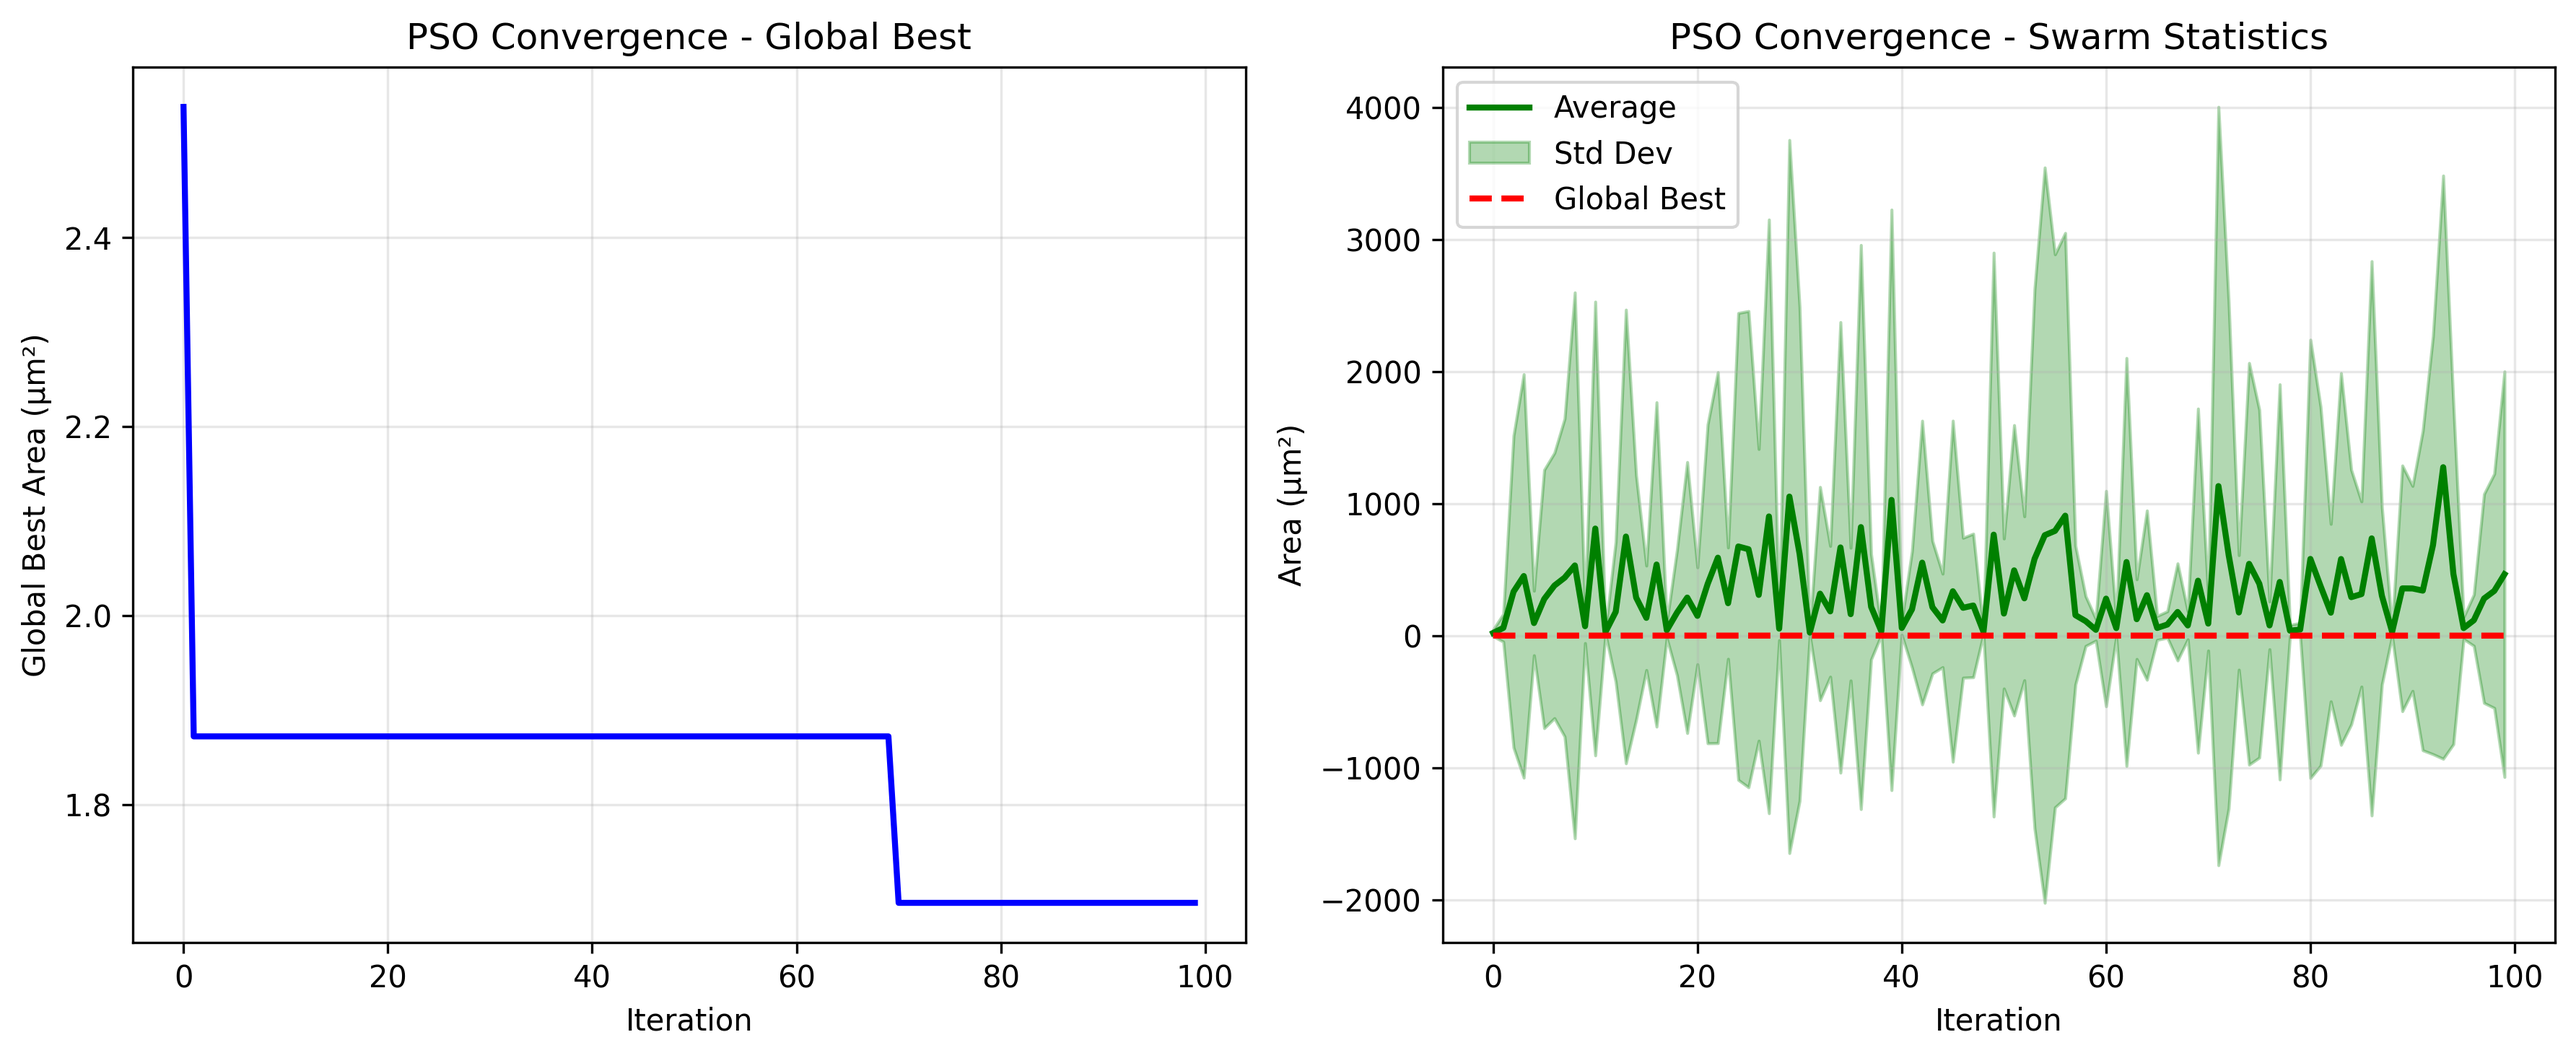
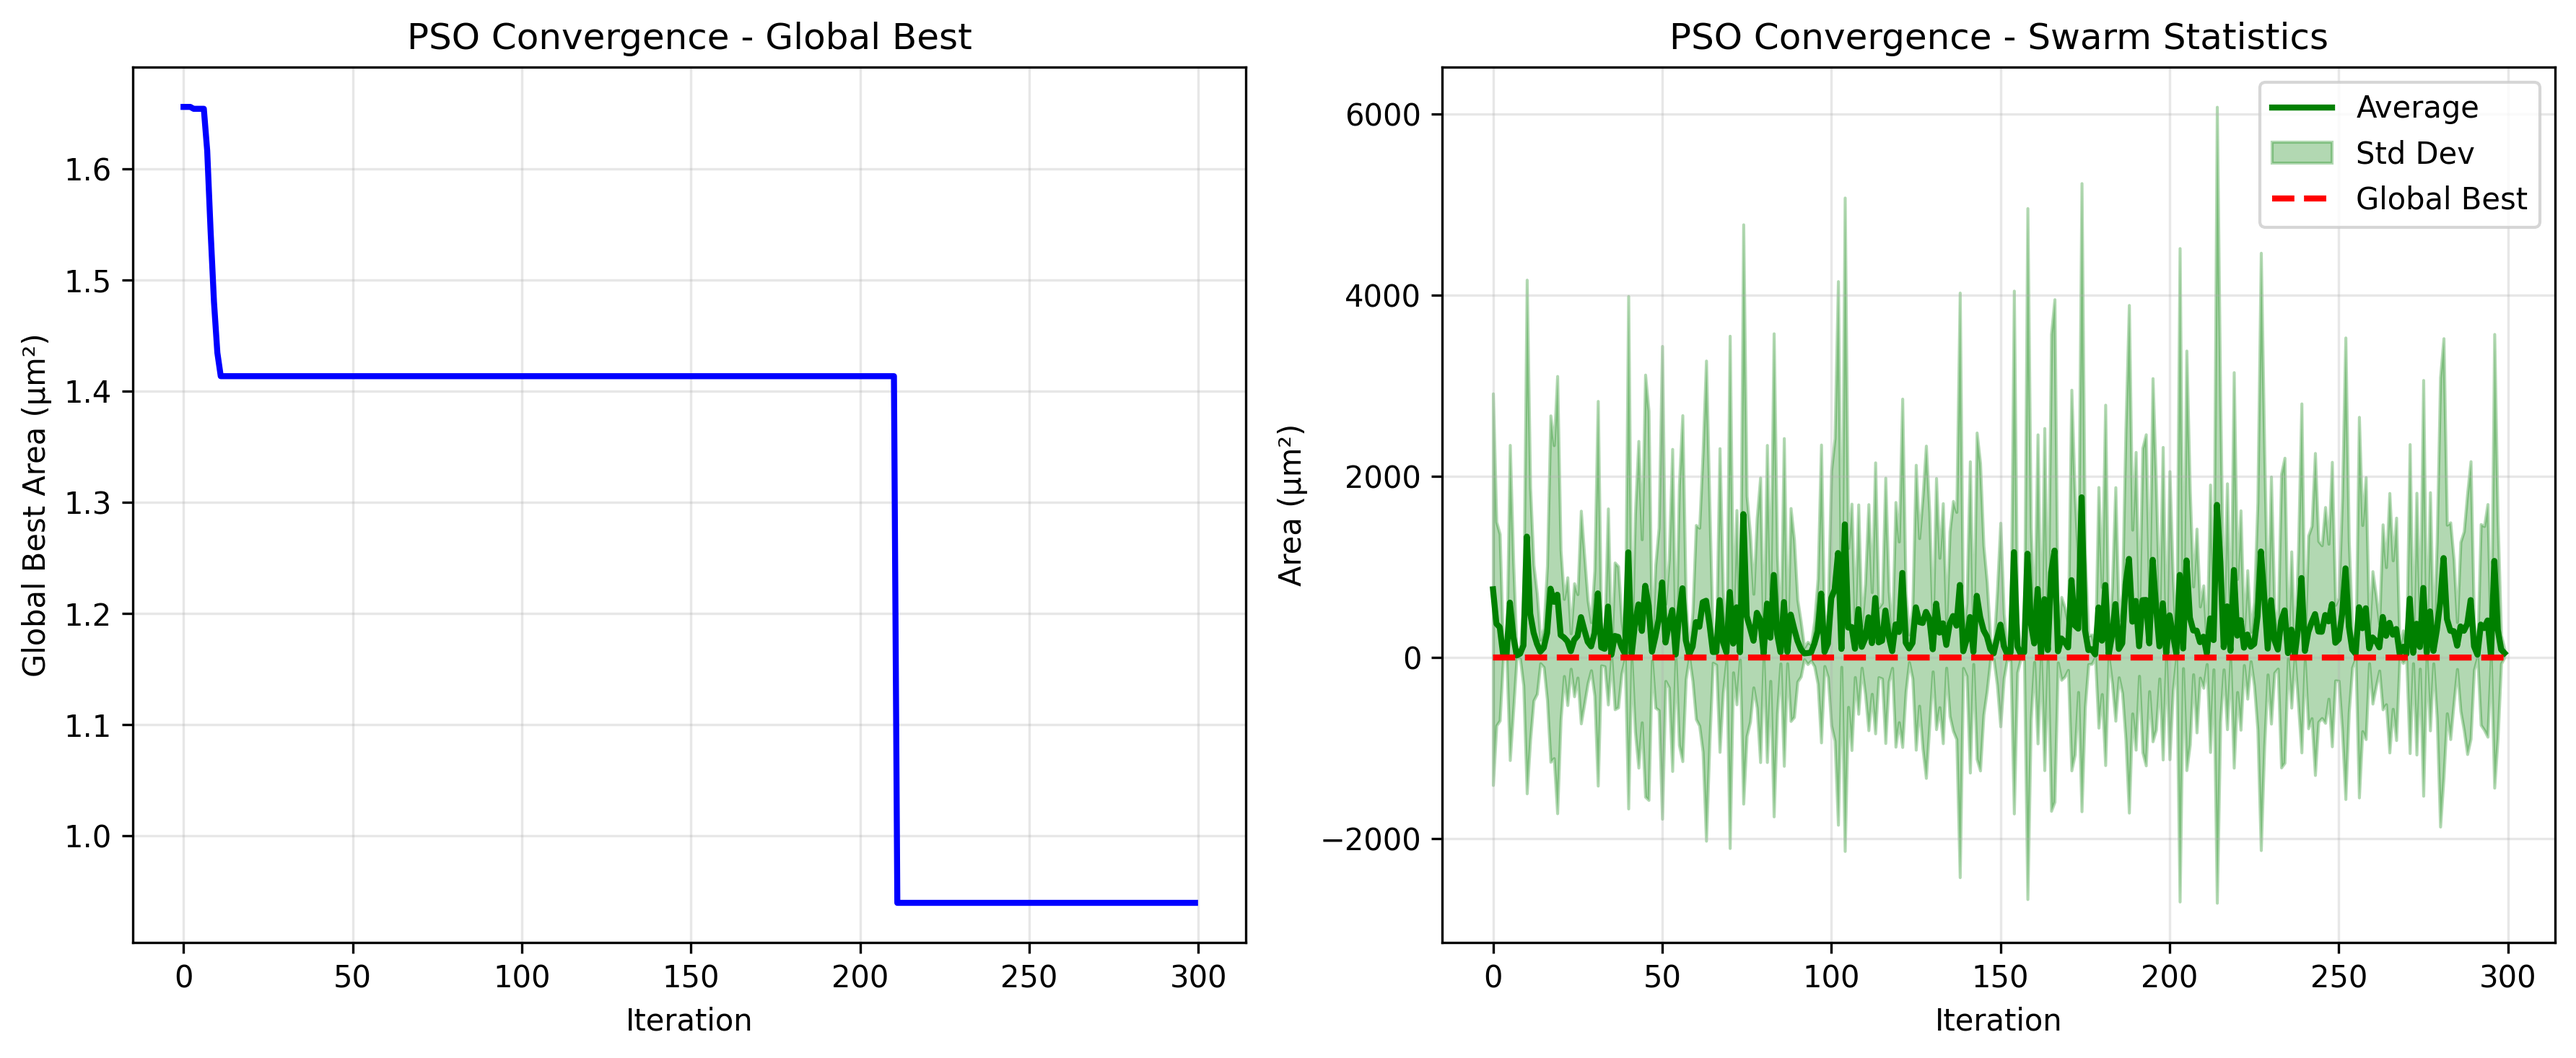
PSO - 300 iterations

diff --git a/PSO/5T-OTA/Hybrid_PSO.py b/PSO/5T-OTA/Hybrid_PSO.py
@@ -1,9 +1,12 @@
+import time
+import os
+import sys
+from contextlib import contextmanager
 import numpy as np
 import matplotlib.pyplot as plt
 from pygmid import Lookup as lk
 from scipy.interpolate import interp1d
 from scipy.optimize import brentq
-import time
 
 NCH = lk('../../sky130_lookup/simulation/nfet_01v8.mat')
 PCH = lk('../../sky130_lookup/simulation/pfet_01v8.mat')
@@ -54,8 +57,20 @@ def getVGS_diode(device_type, target_gm_id, length):
     return vgs_required
 # ===============================
 
+@contextmanager
+def silence_stdout():
+    new_target = open(os.devnull, "w")
+    old_target = sys.stdout
+    sys.stdout = new_target
+    try:
+        yield
+    finally:
+        sys.stdout = old_target
+        new_target.close()
+
 def vgs_error(vgs_guess, target_gm_id, L, VSB):  # VGS solver function
-    vgs_calculated = PCH.lookupVGS(GM_ID=target_gm_id, VDS=vgs_guess, VSB=VSB, L=L)
+    with silence_stdout():
+        vgs_calculated = PCH.lookupVGS(GM_ID=target_gm_id, VDS=vgs_guess, VSB=VSB, L=L)
     return vgs_guess - vgs_calculated
 
 def get_W(gm1, gm2, L_1, L_2, ID):
@@ -68,11 +83,12 @@ def get_W(gm1, gm2, L_1, L_2, ID):
         return None, None
     # Vgs_2 = getVGS_diode('PMOS', gm_ID_2, L_2)
 
-    JD_1 = NCH.lookup('ID_W', GM_ID=gm_ID_1, VDS=VDD/2, VSB=0, L=L_1)
-    JD_2 = PCH.lookup('ID_W', GM_ID=gm_ID_2, VDS=Vgs_2, VSB=0, L=L_2)
+    with silence_stdout():
+        JD_1 = NCH.lookup('ID_W', GM_ID=gm_ID_1, VDS=VDD/2, VSB=0, L=L_1)
+        JD_2 = PCH.lookup('ID_W', GM_ID=gm_ID_2, VDS=Vgs_2, VSB=0, L=L_2)
 
-    W_1 = ID / JD_1
-    W_2 = ID / JD_2
+        W_1 = ID / JD_1
+        W_2 = ID / JD_2
 
     return W_1, W_2
 
@@ -86,21 +102,22 @@ def get_specVars(gm1, gm2, L_1, L_2, ID):
         return None, None, None, None, None, None
     # Vgs_2 = getVGS_diode('PMOS', gm_ID_2, L_2)
 
-    Cdd_1 = gm1 / NCH.lookup('GM_CDD', GM_ID=gm_ID_1, VDS=VDD/2, VSB=0, L=L_1)
-    Cdd_2 = gm2 / PCH.lookup('GM_CDD', GM_ID=gm_ID_2, VDS=Vgs_2, VSB=0, L=L_2)
-    Cpar = Cdd_1 + Cdd_2
+    with silence_stdout():
+        Cdd_1 = gm1 / NCH.lookup('GM_CDD', GM_ID=gm_ID_1, VDS=VDD/2, VSB=0, L=L_1)
+        Cdd_2 = gm2 / PCH.lookup('GM_CDD', GM_ID=gm_ID_2, VDS=Vgs_2, VSB=0, L=L_2)
+        Cpar = Cdd_1 + Cdd_2
 
-    Cgg_2 = gm2 / PCH.lookup('GM_CGG', GM_ID=gm_ID_2, VDS=Vgs_2, VSB=0, L=L_2)
-    Cx = Cpar + Cgg_2
+        Cgg_2 = gm2 / PCH.lookup('GM_CGG', GM_ID=gm_ID_2, VDS=Vgs_2, VSB=0, L=L_2)
+        Cx = Cpar + Cgg_2
 
-    JD_1 = NCH.lookup('ID_W', GM_ID=gm_ID_1, VDS=VDD/2, VSB=0, L=L_1)
-    JD_2 = PCH.lookup('ID_W', GM_ID=gm_ID_2, VDS=Vgs_2, VSB=0, L=L_2)
+        JD_1 = NCH.lookup('ID_W', GM_ID=gm_ID_1, VDS=VDD/2, VSB=0, L=L_1)
+        JD_2 = PCH.lookup('ID_W', GM_ID=gm_ID_2, VDS=Vgs_2, VSB=0, L=L_2)
 
-    W_1 = ID / JD_1
-    W_2 = ID / JD_2
+        W_1 = ID / JD_1
+        W_2 = ID / JD_2
 
-    gds_1 = gm1 / NCH.lookup('GM_GDS', GM_ID=gm_ID_1, VDS=VDD/2, VSB=0, L=L_1)
-    gds_2 = gm2 / PCH.lookup('GM_GDS', GM_ID=gm_ID_2, VDS=Vgs_2, VSB=0, L=L_2)
+        gds_1 = gm1 / NCH.lookup('GM_GDS', GM_ID=gm_ID_1, VDS=VDD/2, VSB=0, L=L_1)
+        gds_2 = gm2 / PCH.lookup('GM_GDS', GM_ID=gm_ID_2, VDS=Vgs_2, VSB=0, L=L_2)
 
     return Cx, Cpar, W_1, W_2, gds_1, gds_2
 
@@ -127,8 +144,7 @@ def get_feasRegion(gm_ID, L_1, L_2, SR_spec, CL, Power_spec, GBW_spec):
 
     return gm1_min, gm1_max, gm2_min, gm2_max, L_1_min, L_1_max, L_2_min, L_2_max, ID_min, ID_max
 
-# we can check the feasibility
-
+# We can check the feasibility
 def survivability_test(particle, verbose=False):
     """
     This is to test if a particle meets all design specifications
@@ -203,8 +219,7 @@ def survivability_test(particle, verbose=False):
     return specs_met, Area_active, specs_dict
 
 
-# generate particles for PSO
-
+# Generate particles for PSO
 def generate_particle(bounds, max_attempts=1000):
     """
     bounds = [gm1_bounds, gm2_bounds, L1_bounds, L2_bounds, ID_bounds]
@@ -227,9 +242,9 @@ def generate_particle(bounds, max_attempts=1000):
     # If we reach here, couldn't generate valid particle
     return None, np.inf, None
 
-
-# Hybrid-PSO Algo.
-
+# ===================================
+# HYBRID-PSO ALGORITHM IMPLEMENTATION
+# ===================================
 class HybridPSO:
     def __init__(self, bounds, n_particles=50, max_iterations=100, 
                  w_max=0.8, w_min=0.5, c1=1.7, c2=1.7, max_velocity_updates=5):
@@ -458,8 +473,6 @@ class HybridPSO:
         plt.tight_layout()
         plt.savefig('pso_convergence.png', dpi=300, bbox_inches='tight')
 
-
-
 def main():
     
     # Define initial bounds based on specifications
@@ -492,7 +505,7 @@ def main():
     pso = HybridPSO(
         bounds=bounds,
         n_particles=20,
-        max_iterations=100,
+        max_iterations=300,
         w_max=0.8,
         w_min=0.5,
         c1=1.7,
@@ -503,8 +516,6 @@ def main():
     results = pso.optimize()
     
     end_time = time.time()
-    
-
     
     if results:
         print("\nOptimal Design Parameters: ")
@@ -536,7 +547,6 @@ def main():
 
         pso.plot_convergence()
         
-
         save_results_to_file(results)
         
     else:
